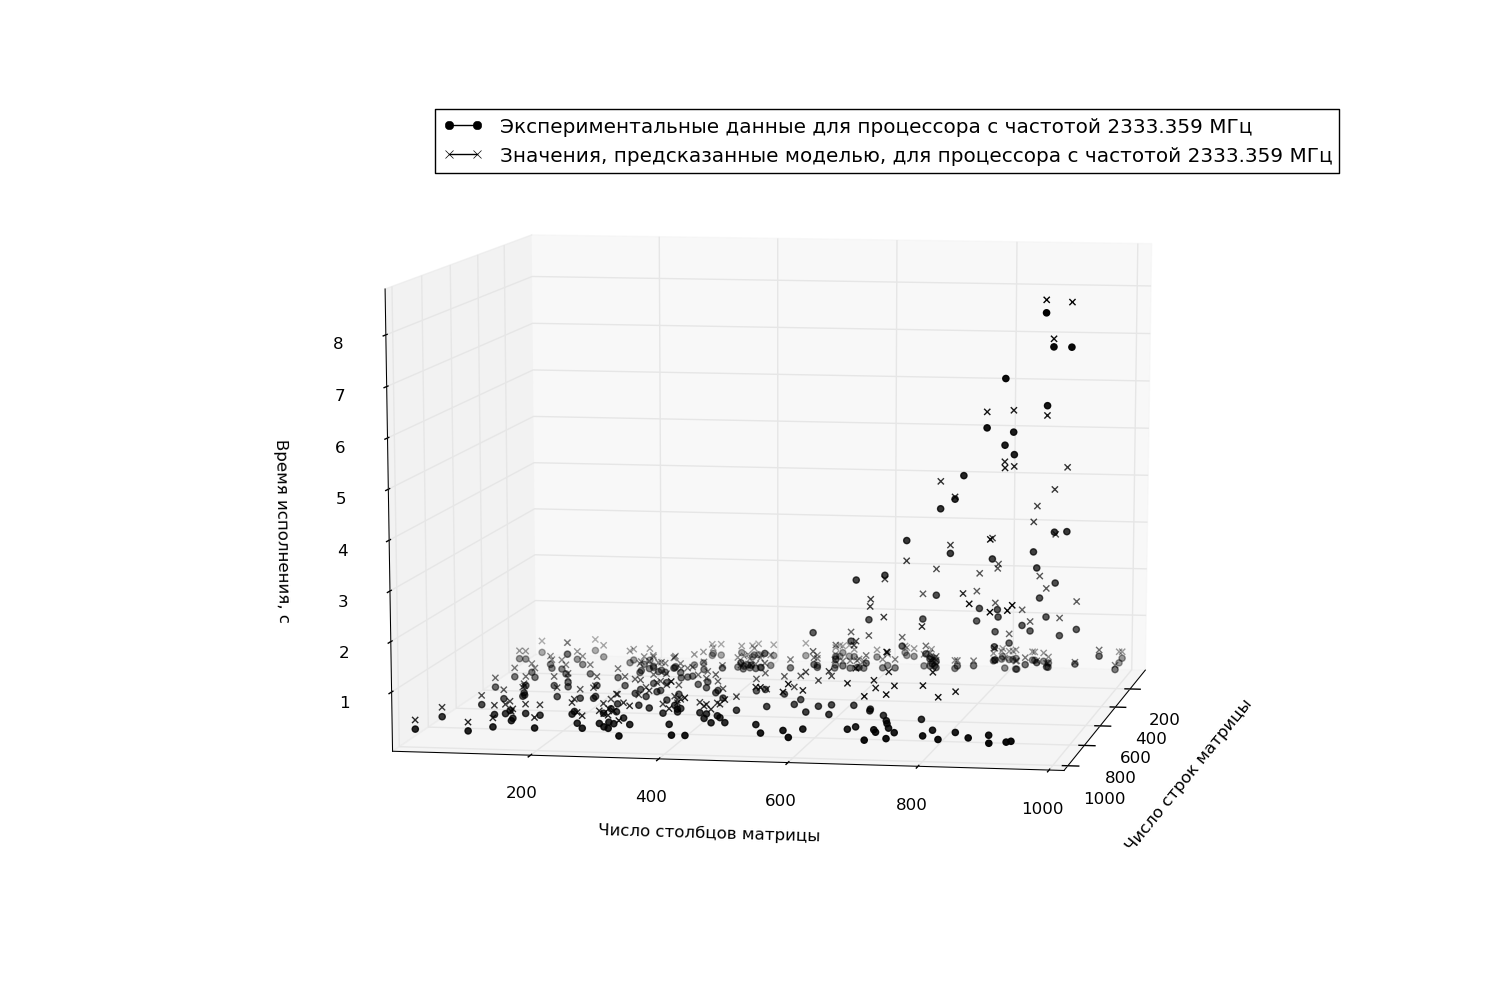
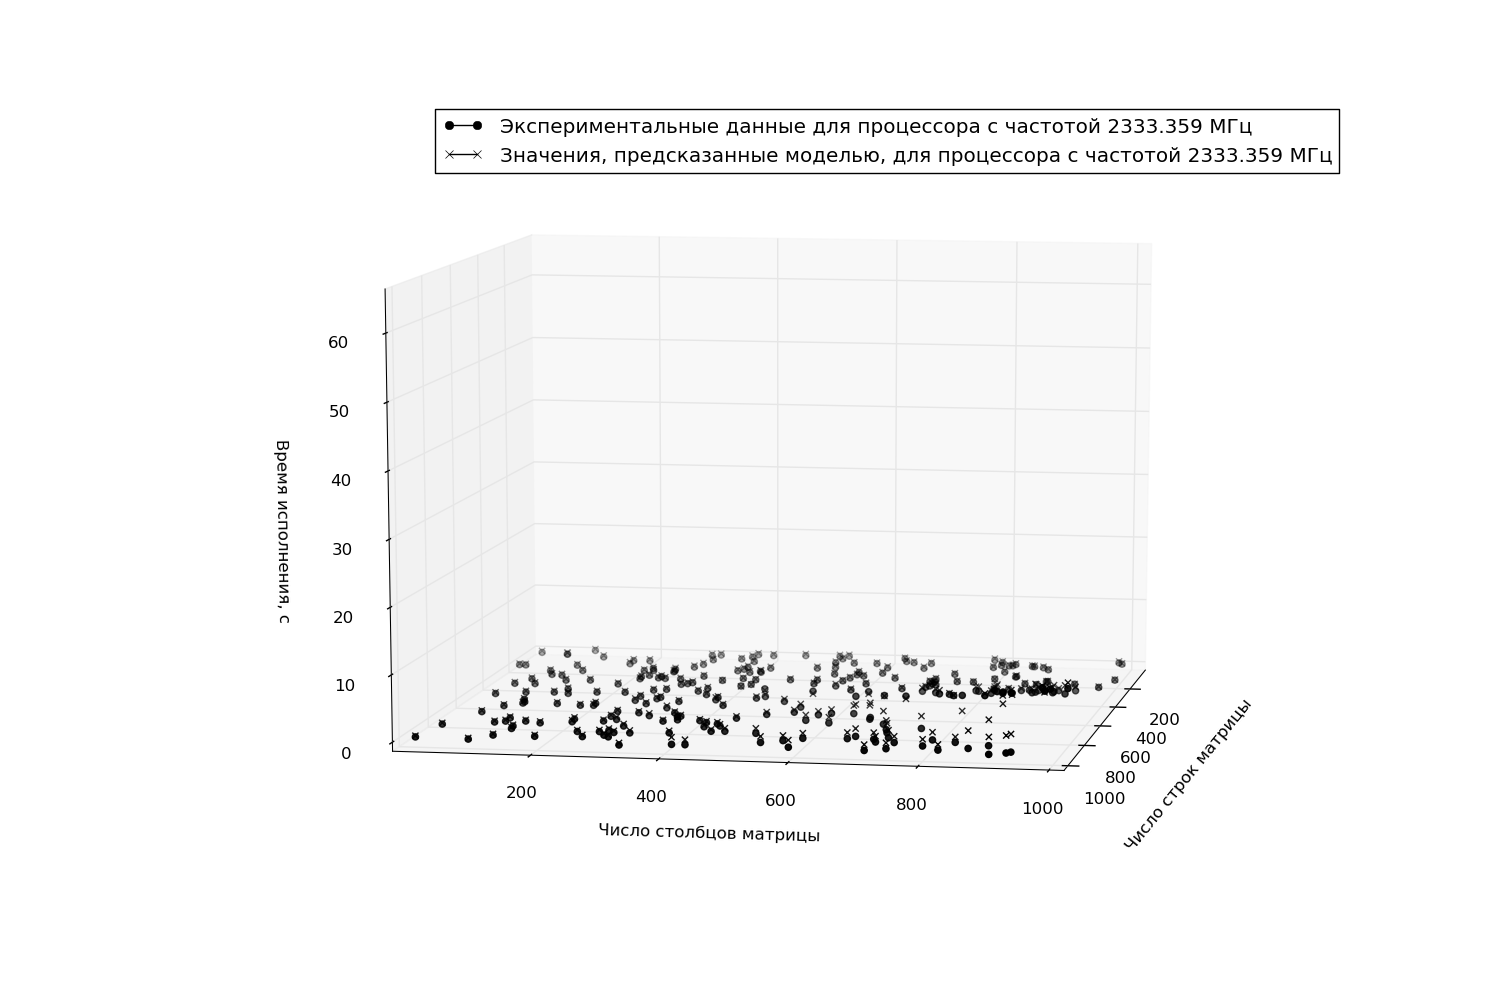
Corrected z-limit for graphs.

Changed region(s): [[0.276, 0.558, 0.7667, 0.775]]

diff --git a/practice12/impl/src/system.py b/practice12/impl/src/system.py
@@ -228,6 +228,7 @@ def plot_predictions_distinct(filename, predictor):
     for freq, cmap, cs in zip(freqs, cmaps, colors):
         for i, view in enumerate((None, (10, 10), (10, 170))):
             fig = plt.figure()
+            fig.set_size_inches(15, 10)
             ax3d = fig.add_subplot(111, projection='3d')
             filter_func = lambda d: True if d['cpu_mhz'] == freq else False
             ws_freq = [int(d['width']) for d in dicts if filter_func(d)]
@@ -249,13 +250,14 @@ def plot_predictions_distinct(filename, predictor):
             ax3d.plot([], [], [], c=cs[1], marker='x',
                 label=u'Значения, предсказанные моделью, для процессора с частотой {0} МГц'.format(freq))
 
+            ax3d.set_zlim([0, 65])
+
             ax3d.xaxis.set_label_text(u'Число строк матрицы')
             ax3d.yaxis.set_label_text(u'Число столбцов матрицы')
             ax3d.zaxis.set_label_text(u'Время исполнения, с')
 
             plt.legend()
             
-            fig.set_size_inches(15, 10)
             plt.savefig('../an/{2}-{0}-{1}.png'.format(freq, i, expname))
 
 
